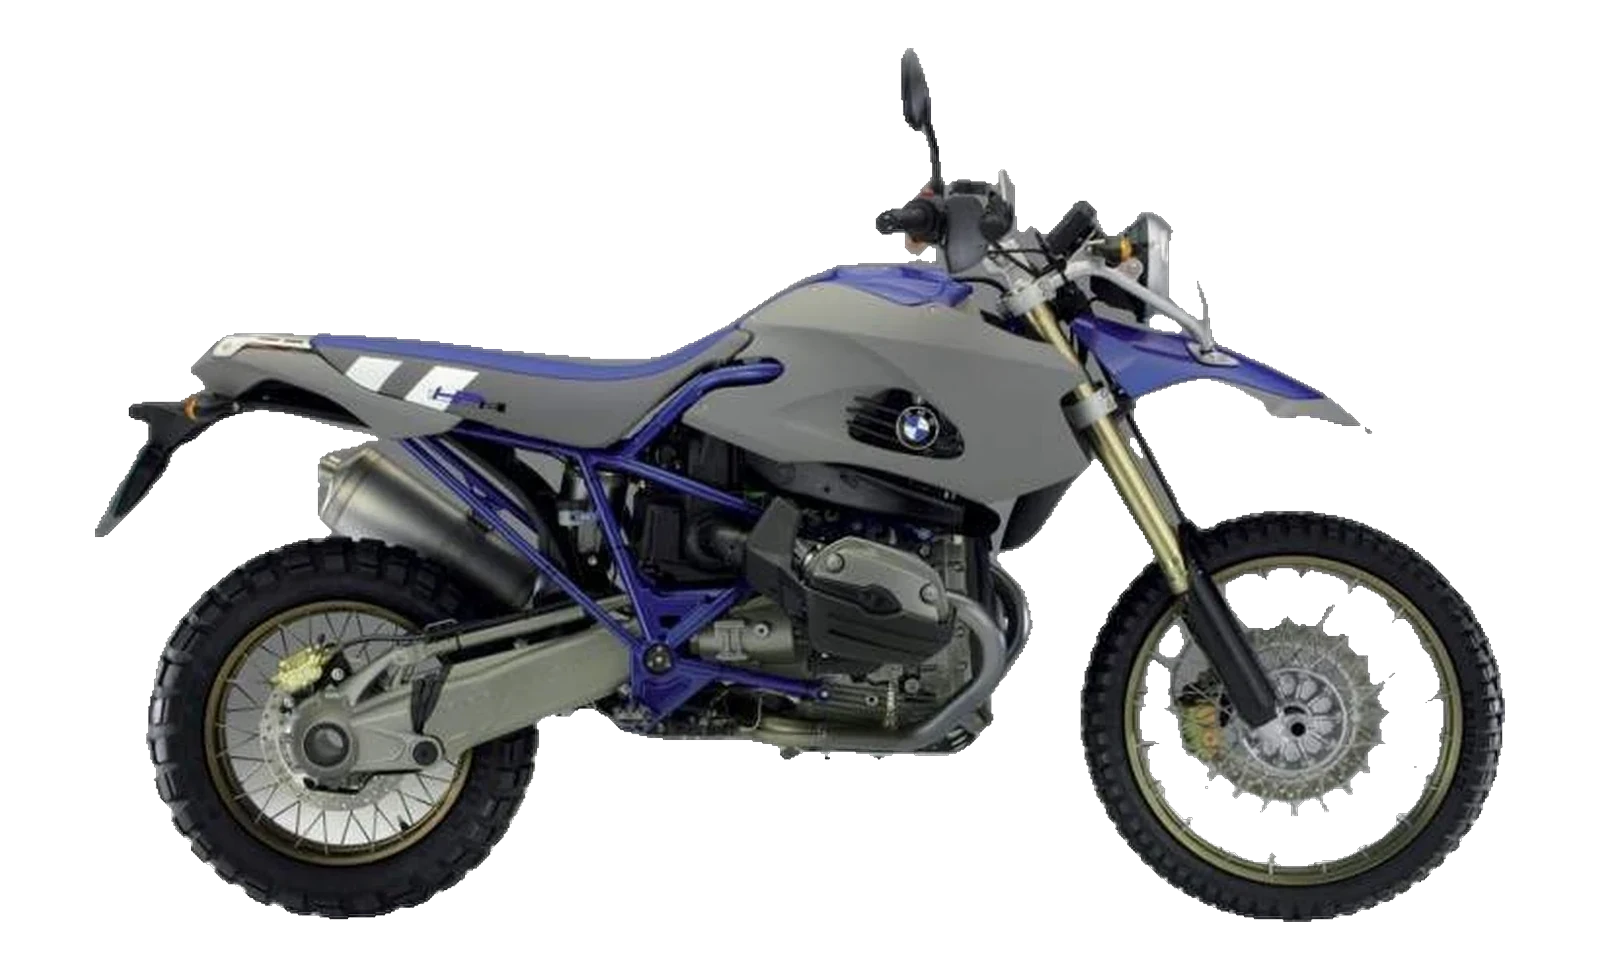
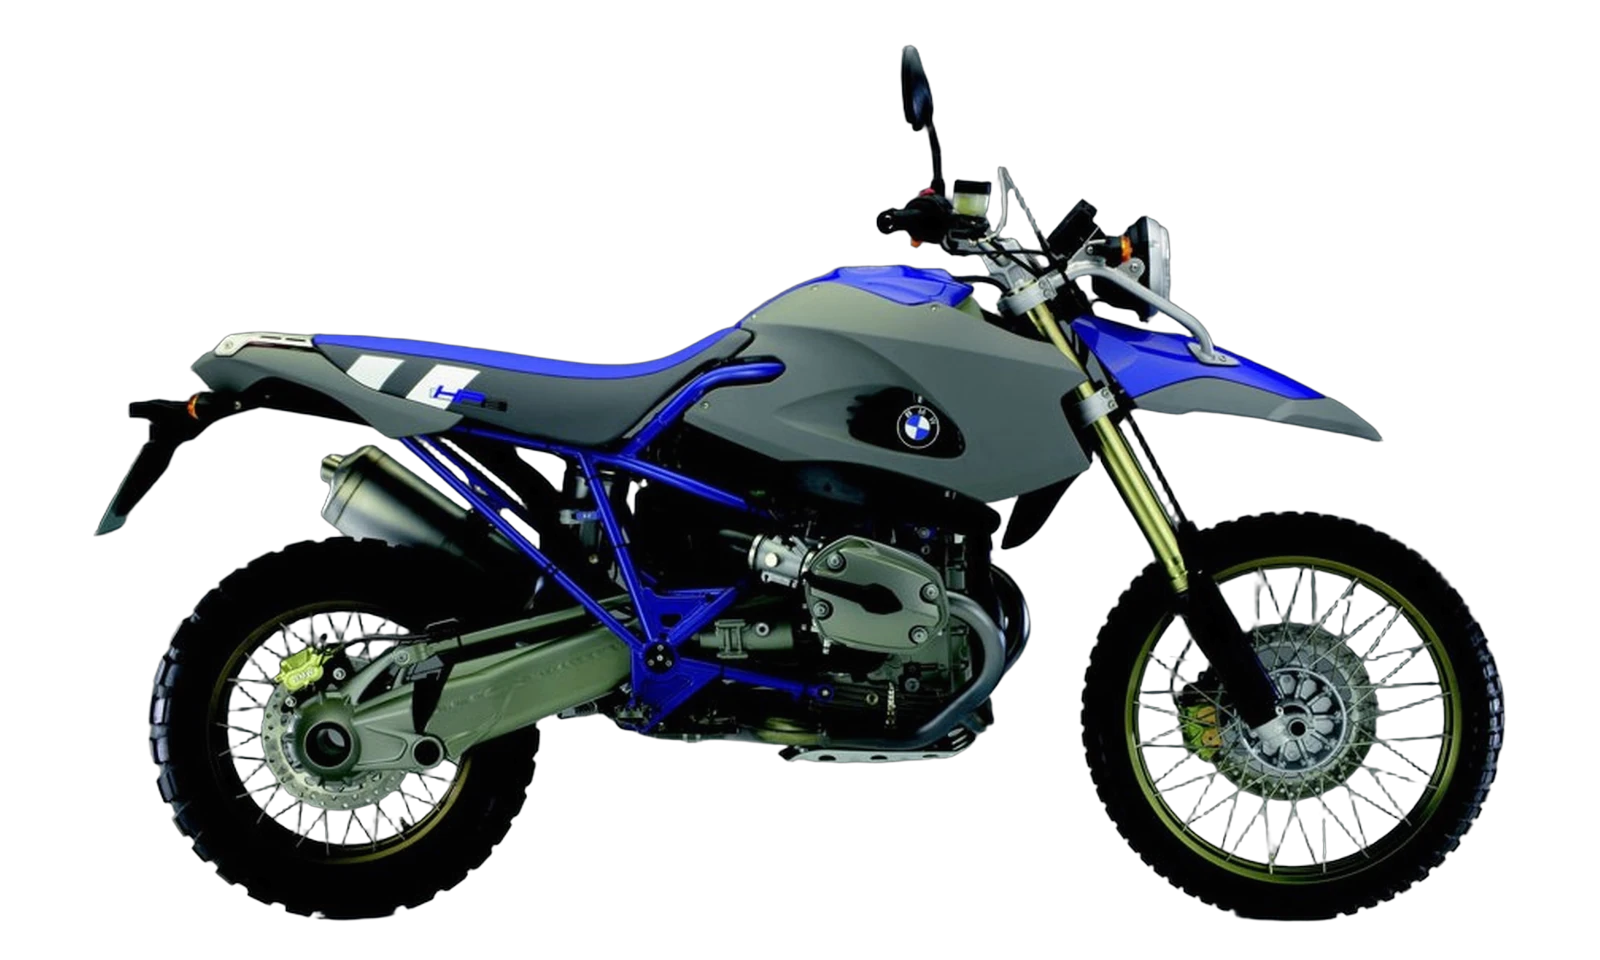
fix: hp2 pics

Changed region(s): [[0.0625, 0.0312, 0.9375, 0.9688]]

diff --git a/scripts/img/cutout.py b/scripts/img/cutout.py
@@ -47,6 +47,37 @@ def cut(img, model):
     return remove(img.convert("RGB"), session=new_session(model, providers=["CPUExecutionProvider"]))
 
 
+def grey_point(img):
+    """Mean of the bike's neutral mid-tones: its bodywork grey, near enough."""
+    import numpy as np
+
+    a = np.asarray(img.getchannel("A"))
+    px = np.asarray(img.convert("RGB"), dtype=float)[a > 200]
+    lum = px.mean(axis=1)
+    neutral = px[(lum > 90) & (lum < 170) & (px.max(axis=1) - px.min(axis=1) < 25)]
+    if len(neutral) < 200:
+        raise SystemExit("not enough neutral mid-tone to colour match against")
+    return neutral.mean(axis=0)
+
+
+def match_colour(img, ref_path):
+    """Correct a colour cast by matching this shot's grey point to another's.
+
+    Per-channel gain with no offset, so black stays black. An offset term fits
+    the highlights better but lifts the shadows, which turned a blue frame
+    violet. Only the cast is corrected: if a part is genuinely a different shade
+    between two shoots, it stays different, because repainting the subject would
+    misrepresent the bike.
+    """
+    import numpy as np
+
+    ref = Image.open(ref_path).convert("RGBA")
+    gain = grey_point(ref) / grey_point(img)
+    rgb = np.asarray(img.convert("RGB"), dtype=float) * gain
+    corrected = Image.fromarray(np.clip(rgb, 0, 255).astype(np.uint8))
+    return Image.merge("RGBA", (*corrected.split(), img.getchannel("A"))), gain
+
+
 def place(img):
     """Scale to the shared canvas and sit the bike on the baseline."""
     alpha = img.getchannel("A")
@@ -130,6 +161,11 @@ def main():
     ap.add_argument("--transparent", action="store_true", help="source already has alpha; skip the model")
     ap.add_argument("--model", default=DEFAULT_MODEL, help=f"rembg model (default {DEFAULT_MODEL})")
     ap.add_argument("--preview", action="store_true", help="also write a magenta-backed .preview.png")
+    ap.add_argument(
+        "--match",
+        metavar="SLUG/SIDE",
+        help="correct a colour cast by matching this shot's grey point to an existing image",
+    )
     ap.add_argument("--audit", action="store_true", help="report alignment and mask quality, change nothing")
     args = ap.parse_args()
 
@@ -140,6 +176,10 @@ def main():
 
     img = Image.open(args.source)
     img = img.convert("RGBA") if args.transparent else cut(img, args.model).convert("RGBA")
+
+    if args.match:
+        img, gain = match_colour(img, os.path.join(OUT_DIR, args.match + ".webp"))
+        print(f"colour matched to {args.match}: gain {tuple(round(g, 3) for g in gain)}")
 
     canvas, w, h, scale = place(img)
     dest = os.path.join(OUT_DIR, args.target + ".webp")

diff --git a/IMG_GEN.md b/IMG_GEN.md
@@ -50,6 +50,30 @@ upscale by more than 1.25x.
 Output goes to `public/bikes/<slug>/<side>.webp`. Sides are `left`, `right` or
 `front`.
 
+### Two views from different shoots
+
+When a bike's two sides come from different photo sessions, one usually carries a
+colour cast and the pair looks like two different motorcycles. `--match` corrects
+the new image against one already in the set:
+
+```bash
+.venv-img/bin/python scripts/img/cutout.py photo.jpg <slug>/right --match <slug>/left
+```
+
+It measures each image's grey point, the mean of its neutral mid-tones, and
+applies a per-channel gain. No offset term: an offset fits the highlights better
+but lifts the shadows, which on the HP2 turned a blue frame violet.
+
+It corrects a cast and nothing else. If a part is genuinely a different shade
+between two shoots, it stays different, because repainting the subject would
+misrepresent the bike.
+
+**Off by default, and worth checking before you keep it.** On the HP2 it
+neutralised the bodywork but the pair still did not match, because the frame blue
+differs between the two shoots for reasons white balance cannot touch. Correcting
+half the difference can look worse than leaving the shot as the photographer
+graded it. Compare both and keep whichever actually reads better.
+
 **Always check a cutout with `--preview`.** It writes a copy on magenta into
 `.img-preview/` (gitignored). Magenta should show through only where the bike is
 genuinely see-through: between spokes, through a drilled brake disc, gaps in the
